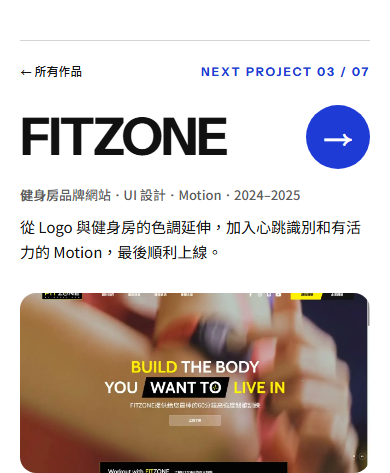
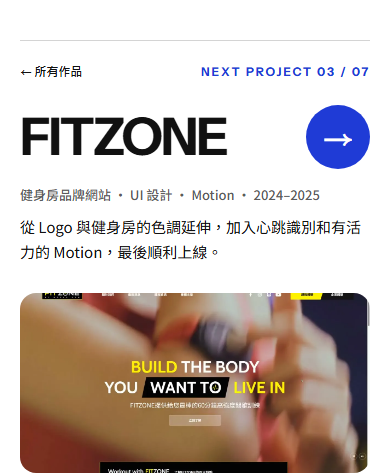
fix(fitzone): subset the Next meta at weight 500, desktop Next rhythm
PR #31 review:
- P1-1: the Next meta is Noto Sans TC 500, but weight 500 was subset to
  `li` only, so its CJK glyphs and the full-width `·` fell back to a
  system font. WEIGHT_ELEMENTS now accepts `tag.class` and lists
  `p.next-meta`; the coverage gate shares the list. CDP
  getPlatformFontsForNode now reports only Noto Sans TC for the Next text
  on all three case pages. DESIGN_SYSTEM and an ADR-0012 amendment record
  the rule.
- P1-2: with the real glyphs FITZONE Next is 494 / 490 at 390, so the
  21 px exception (and its wrong rendering diagnosis) is removed.
- P2-1: 1920 Next rhythm from 360:1801: title +20 meta +12 body +64
  preview (was 26 / 20 / 21).

Changed region(s): [[0.3077, 0.3848, 0.8308, 0.444], [0.0308, 0.3848, 0.1538, 0.444]]

diff --git a/src/styles/case.css b/src/styles/case.css
@@ -579,10 +579,12 @@ figcaption strong {
   gap: var(--space-5);
 }
 
+/* 1920 Next rhythm (`360:1801`): title +20 meta +12 body +64 preview. The
+   arrow is taller than the title, so the heading row gives back the overhang. */
 .next-project .case-container > a:not(.back-link) {
   display: grid;
   grid-template-columns: minmax(0, 1fr);
-  gap: var(--space-5);
+  gap: 0;
   color: var(--color-text-primary);
   text-decoration: none;
 }
@@ -592,6 +594,9 @@ figcaption strong {
   grid-template-columns: 1fr auto;
   align-items: center;
   gap: var(--space-4);
+  margin-block-end: calc(
+    var(--space-5) - (var(--size-next-arrow) - var(--font-size-next-title)) / 2
+  );
 }
 
 .next-arrow {
@@ -636,6 +641,7 @@ figcaption strong {
   font-size: var(--font-size-body);
   font-weight: 500;
   line-height: 1.2;
+  margin-block-end: var(--space-3);
 }
 
 /* With the normal spaces around it, this matches a full-width space at
@@ -645,6 +651,7 @@ figcaption strong {
 }
 
 .next-body {
+  margin-block-end: var(--space-16);
   color: var(--color-text-primary);
   font-size: var(--font-size-next-body);
   line-height: 1.2;

diff --git a/tests/unit/font-text.test.ts b/tests/unit/font-text.test.ts
@@ -59,6 +59,7 @@ describe('ADR-0012 layout features', () => {
 describe('weightedText', () => {
   const html = `<html><head><title>標題列</title></head><body>
     <h1>設計畫面</h1><p>內文</p><ul><li>已上線</li></ul>
+    <p class="next-meta" data-astro-cid-x>健身房 <span class="next-meta-separator">·</span> 品牌網站</p>
     <script>const ignored = '腳本';</script></body></html>`;
   const text = weightedText(html);
 
@@ -67,6 +68,13 @@ describe('weightedText', () => {
     expect(text[700]).not.toContain('內文');
     expect(text[500]).toContain('已上線');
     expect(text[500]).not.toContain('設計畫面');
+  });
+
+  it('assigns the case Next meta to 500, including its separators', () => {
+    expect(text[500]).toContain('健身房');
+    expect(text[500]).toContain('·');
+    expect(text[500]).toContain('品牌網站');
+    expect(text[500]).not.toContain('內文');
   });
 
   it('uses all rendered body text for 400 but skips head and scripts', () => {

diff --git a/tests/e2e/smoke.spec.ts b/tests/e2e/smoke.spec.ts
@@ -604,8 +604,7 @@ const figmaSectionHeights390 = {
     ['Links', 627],
     ['Next Project', 469],
   ],
-  // FITZONE `484:1339`. Figma wraps the SSS Next meta (`484:1556`) to two
-  // lines at 350 px; the browser renders it 327 px wide on one line (21 px).
+  // FITZONE `484:1339`.
   '/work/fitzone/': [
     ['Hero', 810],
     ['Overview', 765],
@@ -613,7 +612,7 @@ const figmaSectionHeights390 = {
     ['Interaction & Motion', 789],
     ['Visual Extension', 410],
     ['Links', 627],
-    ['Next Project', 490, 21],
+    ['Next Project', 490],
   ],
 } as const;
 

diff --git a/ADR/0012-build-time-cjk-font-subsetting.md b/ADR/0012-build-time-cjk-font-subsetting.md
@@ -55,3 +55,6 @@ LCP ≤ 2.5 s and Performance ≥ 0.90 are unchanged.
 - **Only the default horizontal OpenType features are kept** (`LAYOUT_FEATURES` in `scripts/font-text.mjs`, unit-tested): `ccmp locl liga kern mark` plus the GPOS-only `palt halt`. `subset-font` keeps every feature unless told otherwise, and the glyph closure of `vert vrt2 fwid hwid pwid aalt dlig hist ruby` nearly doubled each `core` file (400-core: 369 code points but 716 glyphs). The site never enables those features: there is no `font-feature-settings`, `font-variant-*` or vertical `writing-mode`. Adding one of those later requires adding its feature to the list.
 - Measured on `main` → this change (Lighthouse mobile, local, median of 3): home Noto Sans TC 131 KB → **79 KB**; home LCP 2495 → **2192 ms**. Full-page screenshots of `/`, `/work/88win/`, `/work/hwa-fong/`, `/resume/` and `/404/` at 390 and 1440 px are byte-identical before and after.
 - Font preloads stay off (amendment above). A local experiment preloading the four home fonts saved only about 80 ms of LCP. Inlining the two stylesheets saved nothing.
+
+## Amendment (2026-11-01, FITZONE Next meta, PR #31 review P1-1)
+- The case Next meta (`p.next-meta`) is Noto Sans TC **500** in every Figma frame (`360:1368`, `484:1556`), so it joins the weight-500 elements. `WEIGHT_ELEMENTS` now accepts `tag.class` entries, and the coverage gate uses the same list. Without this, the meta's CJK glyphs and its `·` (full-width in Noto Sans TC) fell back to a system font.

diff --git a/docs/DESIGN_SYSTEM.md b/docs/DESIGN_SYSTEM.md
@@ -37,7 +37,7 @@ Child-node citations are included beside each measured value. Values are direct 
 
 Format is `font-size / line-height`. The About and section labels use `0.12em` letter spacing (`451:666`, `474:1258`).
 
-**Noto Sans TC weight usage (implementation constraint, ADR-0012):** 700 only in headings (`h1`–`h3`), 500 only in tag chips (`li`), 400 everywhere else. Fonts are subset per weight to exactly those elements. A new Chinese use of 500 or 700 outside these elements must be added to `scripts/font-text.mjs`, or the glyphs fall back to the system font.
+**Noto Sans TC weight usage (implementation constraint, ADR-0012):** 700 only in headings (`h1`–`h3`), 500 only in tag chips (`li`) and the case Next meta (`p.next-meta`, Figma `360:1368`), 400 everywhere else. Fonts are subset per weight to exactly those elements. A new Chinese use of 500 or 700 outside these elements must be added to `scripts/font-text.mjs`, or the glyphs fall back to the system font.
 
 ## Spacing
 
